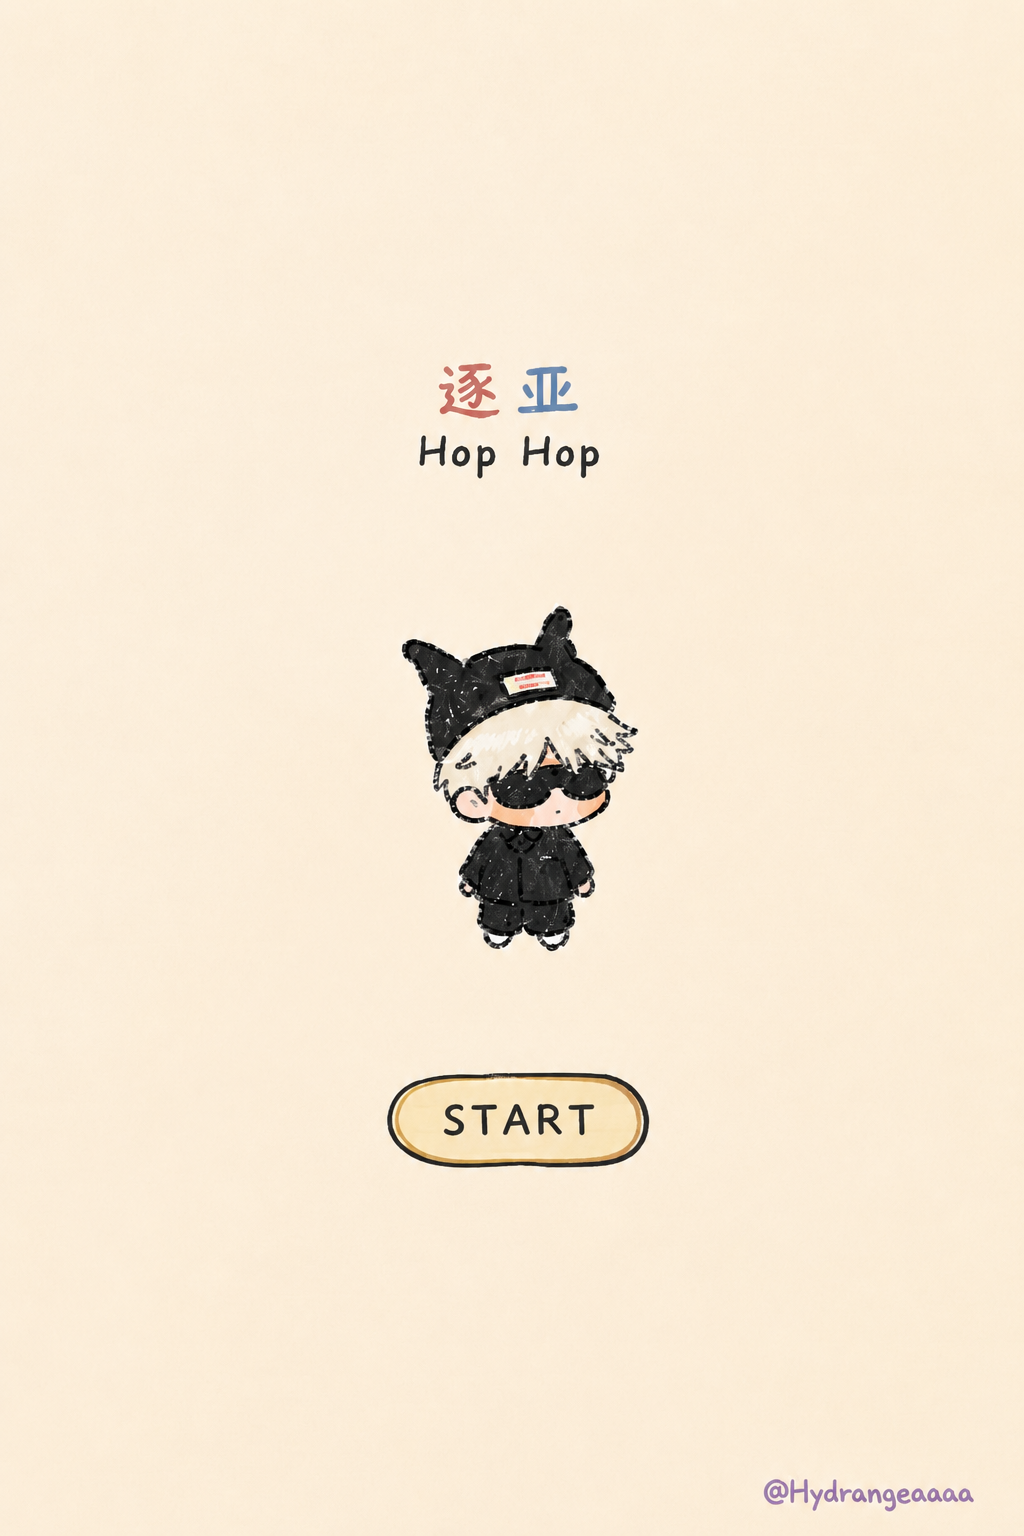
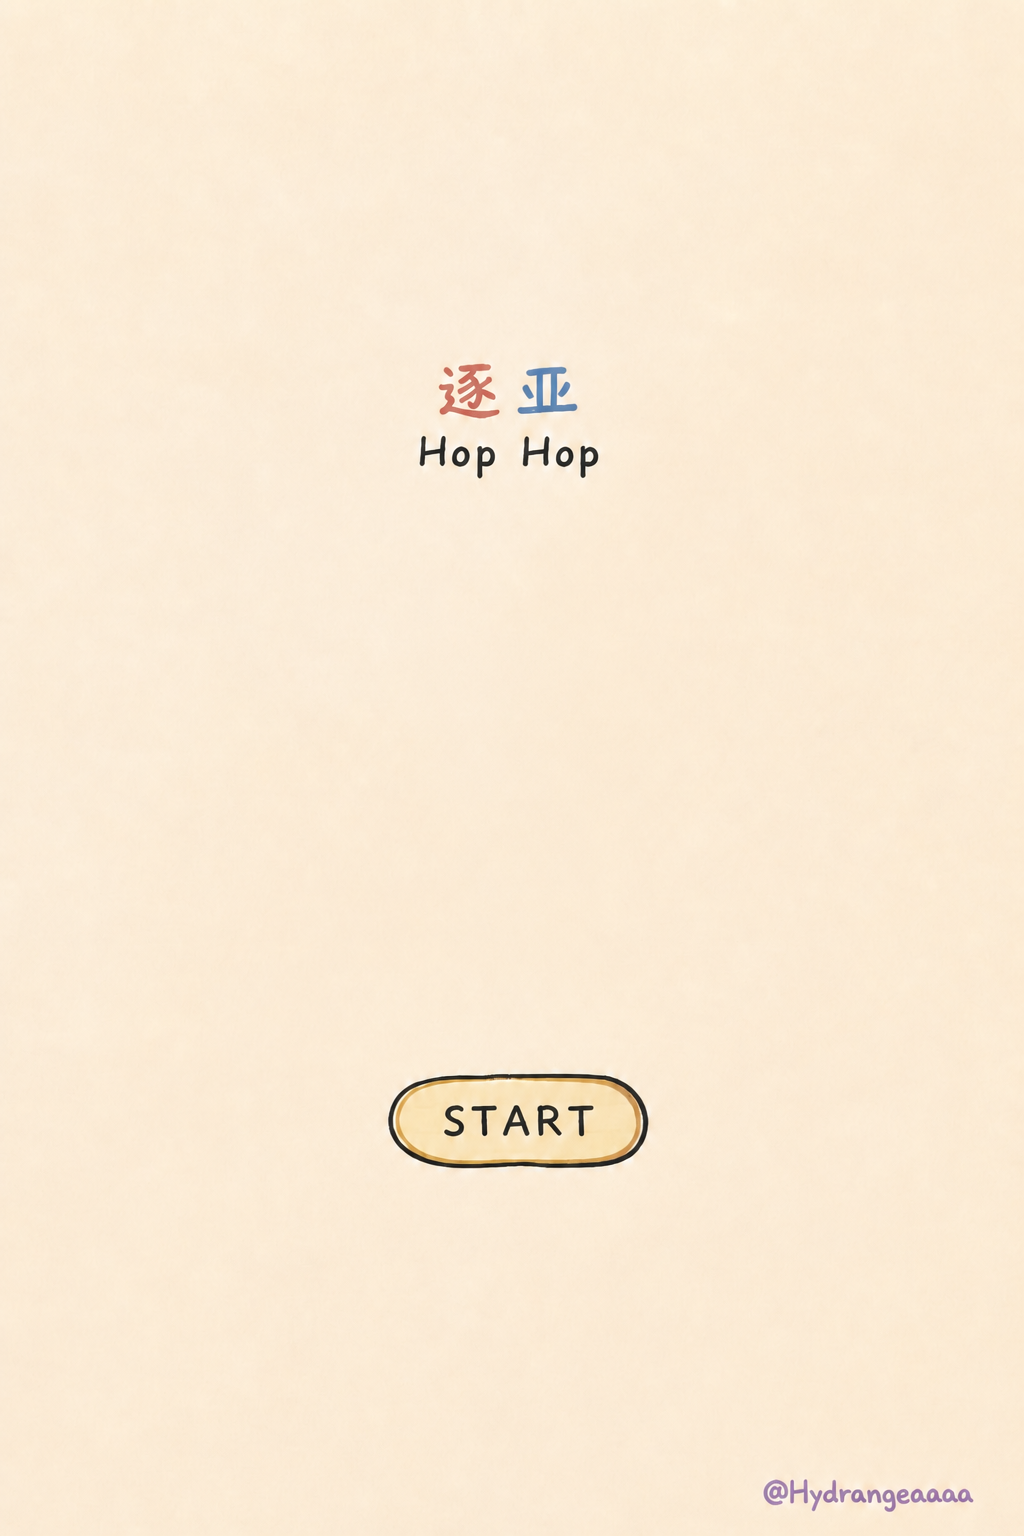
Remove large cover character and keep selectors

diff --git a/index.html b/index.html
@@ -20,7 +20,7 @@
       <section id="start-view" class="screen-view is-active" aria-label="开始页面">
         <div class="image-stage start-stage">
           <img
-            src="assets/screens/start-screen.png"
+            src="assets/screens/start-screen.png?v=15"
             alt="逐亚 Hop Hop 开始页面"
             draggable="false"
           />
